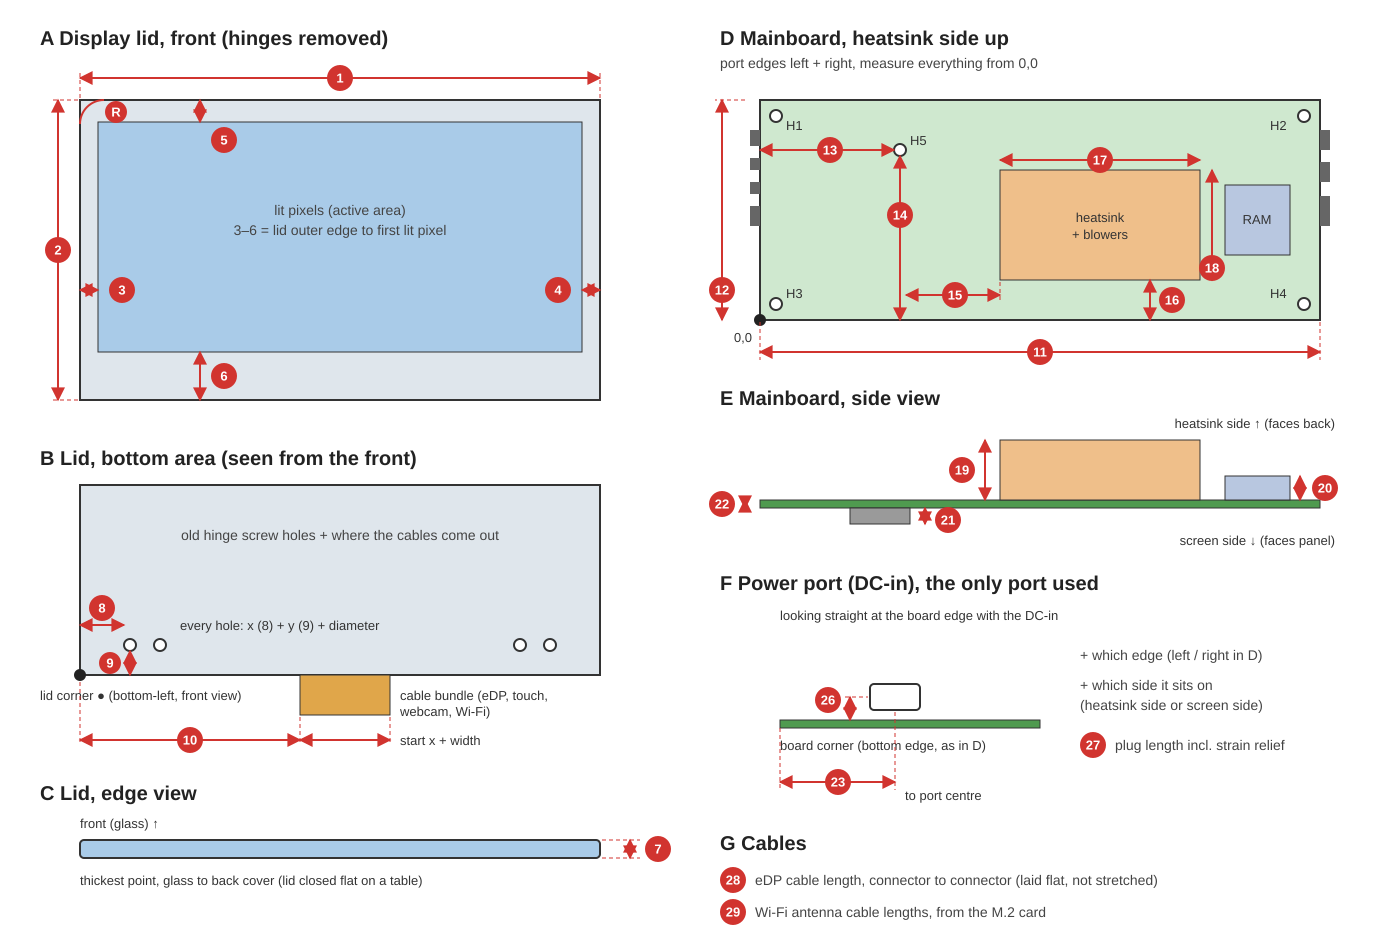
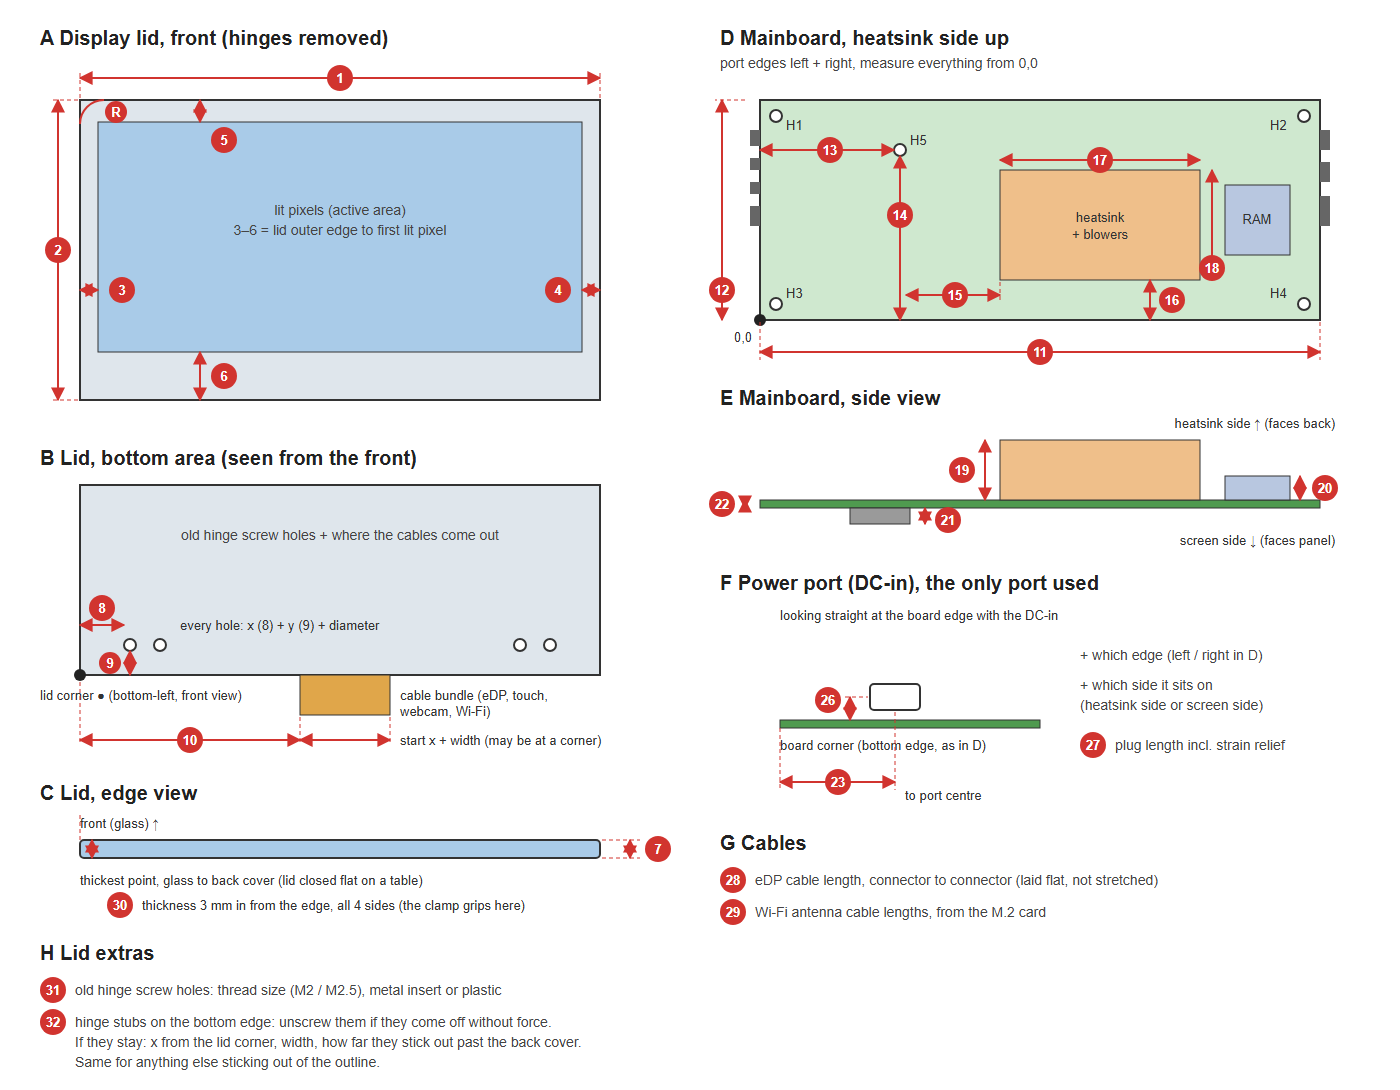
docs(measure): add edge thickness, hinge thread and hinge stub items

diff --git a/docs/measurements.md b/docs/measurements.md
@@ -12,8 +12,9 @@ Numbers match [measure.png](measure.png). All values in mm. Fill in the value co
 | 5 | Top: lid edge to first lit pixel | `bezel[2]` | |
 | 6 | Bottom: lid edge to first lit pixel | `bezel[3]` | |
 | 7 | Lid thickness at its thickest point | `lid_t` | |
+| 30 | Lid thickness 3 mm in from the edge, all 4 sides | `lid_t_edge` | |
 | 8 / 9 | Every old hinge screw hole: x / y from the lid corner, plus diameter | `lid_anchors` | |
-| 10 | Cable bundle exit at the bottom edge: start x + width | `cable_exit` | |
+| 10 | Cable bundle exit at the bottom edge: start x + width (where the cables really leave, may be at a hinge stub near a corner) | `cable_exit` | |
 | 11 | Board width | `board_w` | |
 | 12 | Board height | `board_h` | |
 | 13 / 14 | Every screw hole H1, H2…: x / y from 0,0, plus hole diameter | `board_holes` | |
@@ -23,10 +24,14 @@ Numbers match [measure.png](measure.png). All values in mm. Fill in the value co
 | 20 | Tallest other part on the heatsink side (RAM, SSD) | `comp_h` | |
 | 21 | Tallest part on the screen side | `gap` | |
 | 22 | Board thickness | `board_t` | |
-| 23 | DC-in centre: distance from the board's bottom edge | `dc_in_y` | |
+| 23 | DC-in centre: distance along the edge from the board corner | `dc_in_y` | |
 | 26 | DC-in centre: height above the board, and on which side | — | |
 | 27 | Plug length incl. strain relief, plus which edge (L/R) | `dc_plug_len`, `dc_in_side` | |
 | 28 | eDP cable length, connector to connector | — | |
 | 29 | Wi-Fi antenna cable lengths, from the M.2 card | — | |
+| 31 | Old hinge screw holes: thread size, metal insert or plastic | `anchor_clear_d` | |
+| 32 | Hinge stubs on the bottom edge: removed without force? If not: x, width, how far they stick out past the back cover | — | |
+
+Batch order: lid first (1–10, R, 30–32) unblocks the `test_corner` print. Board (11–27) next, cables (28, 29) last.
 
 If the board isn't a plain rectangle, a photo taken straight from above with a ruler next to it is enough for the outline.
